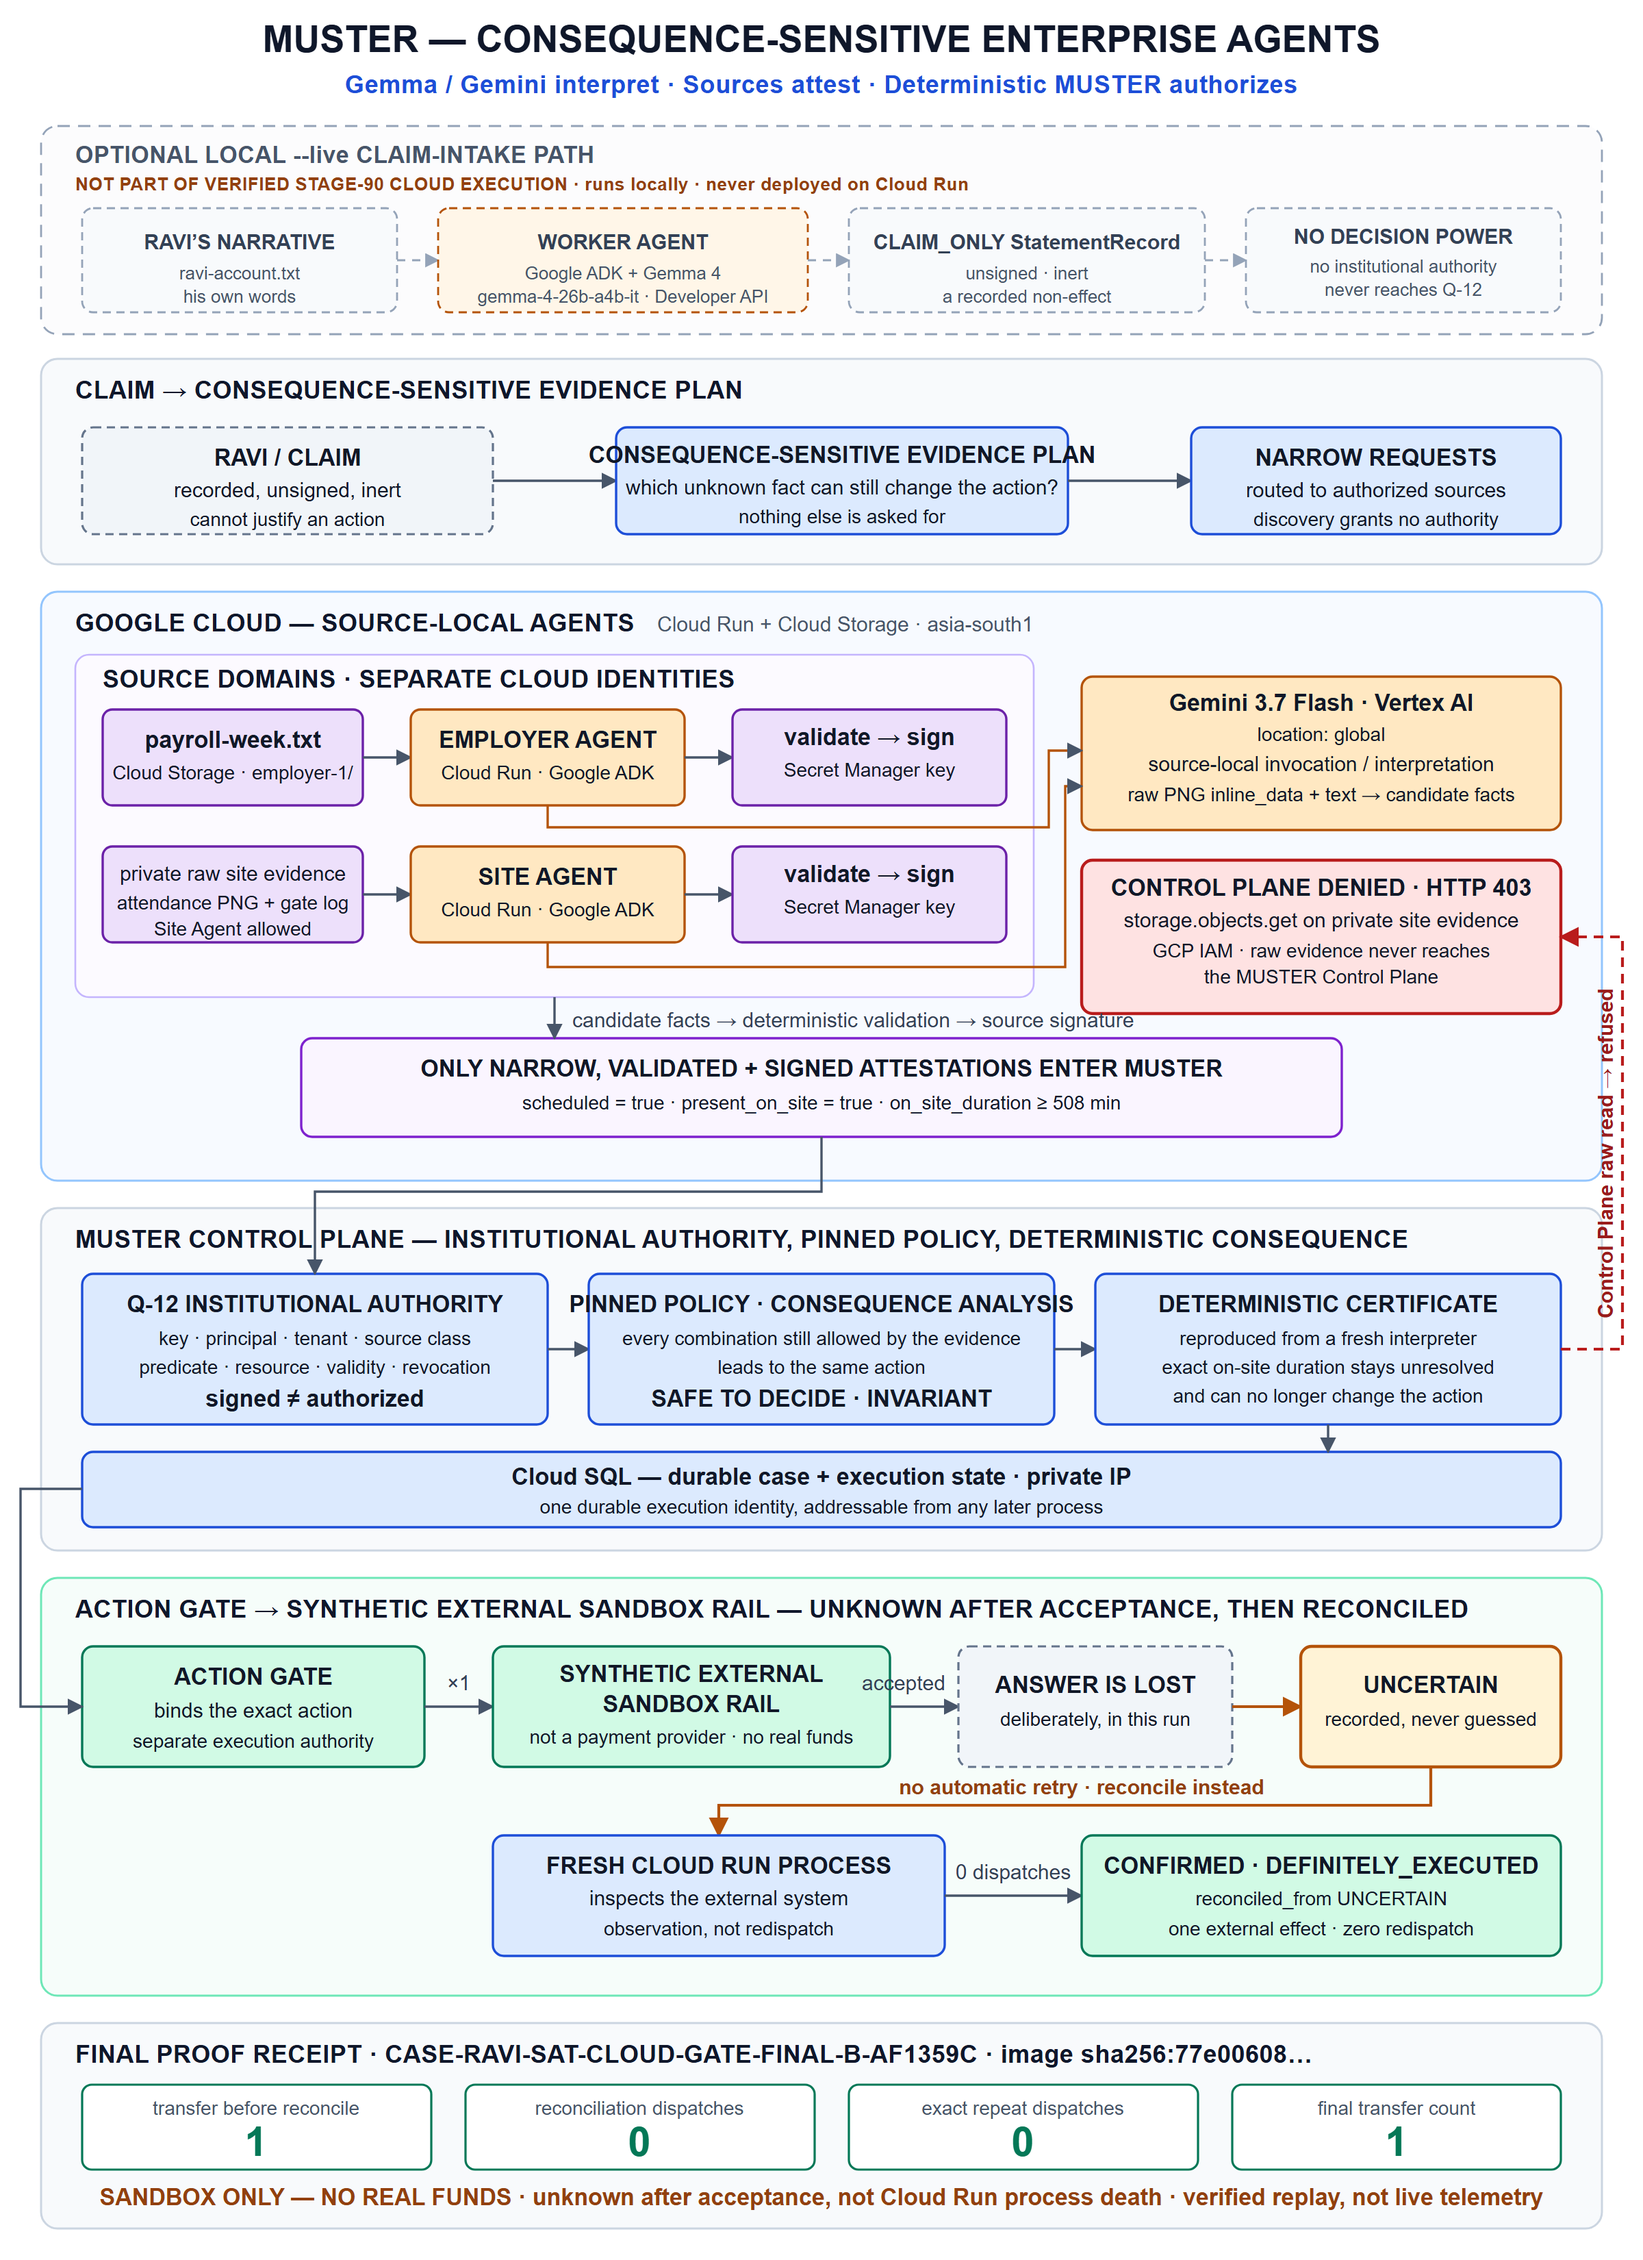
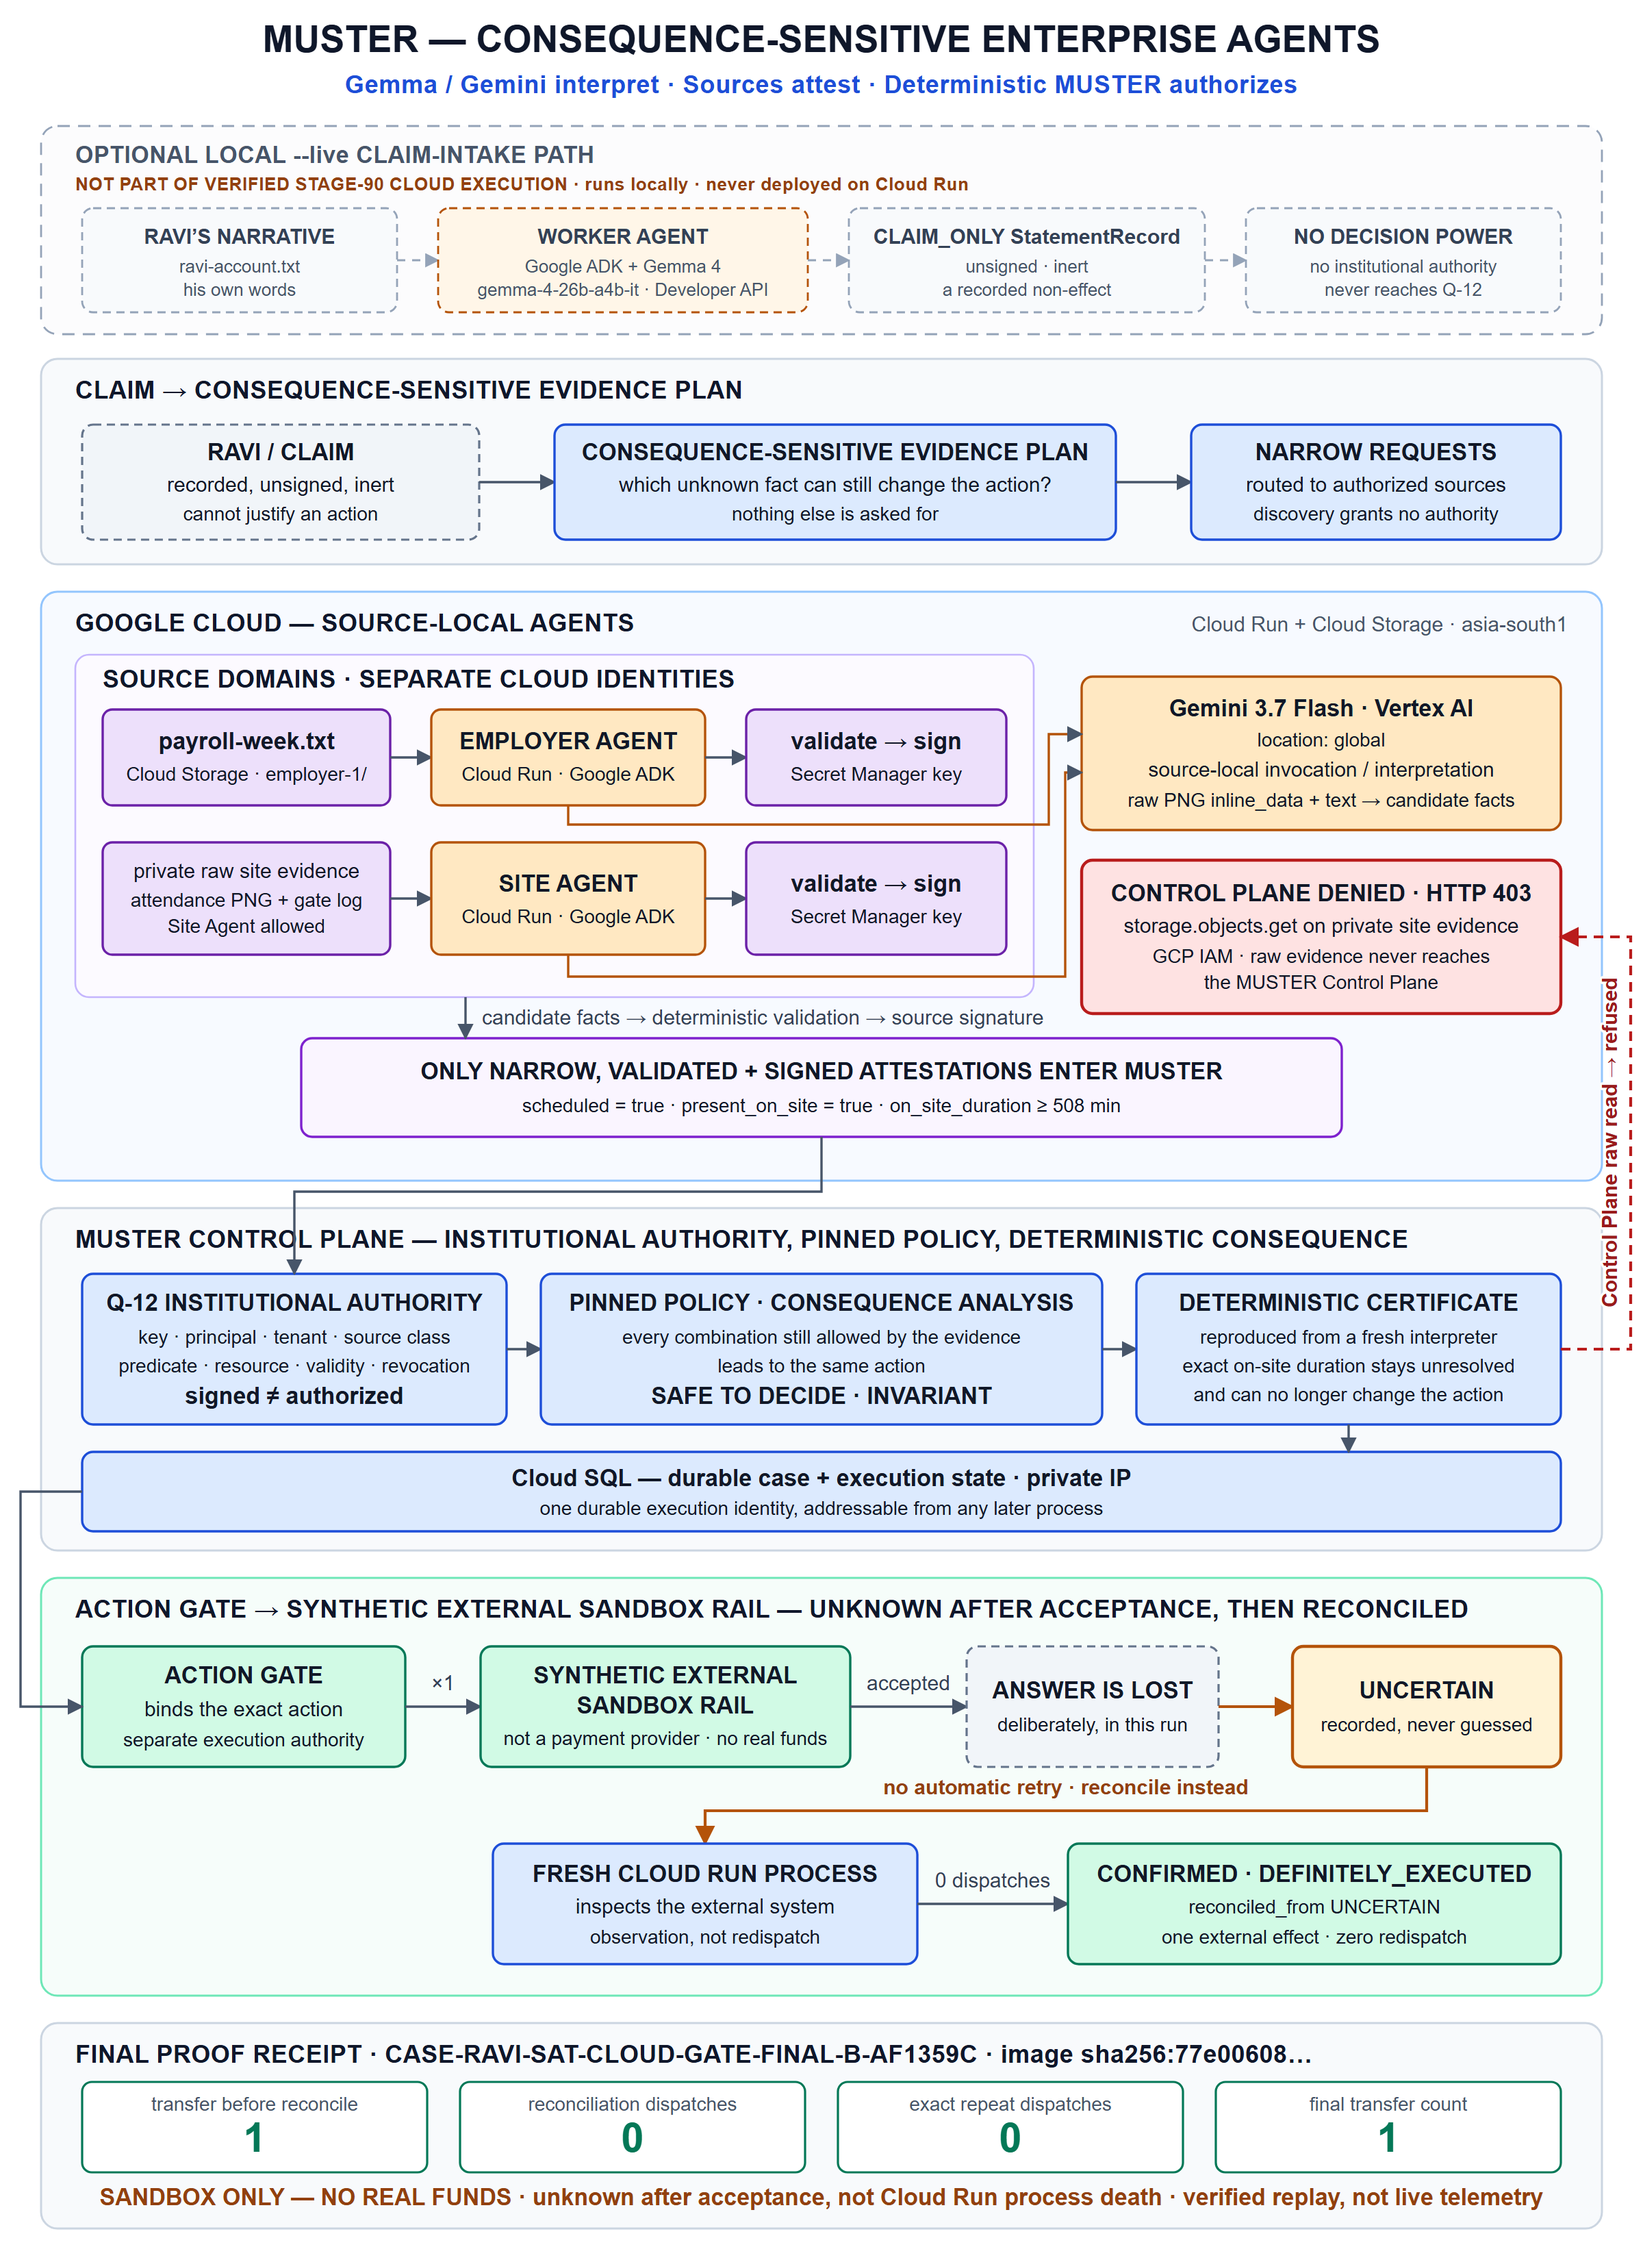
docs: polish final submission materials

diff --git a/README.md b/README.md
@@ -480,48 +480,30 @@ ARCHITECTURE.md            authoritative architecture and claim boundaries
 
 ## Testing
 
-`pytest --collect-only` reports **7,706 collected tests** — items, which is
-what pytest runs and counts, so a parametrized test contributes one per case.
-**0 fail in either environment recorded here.** How many of the 7,706 *run* is
-a property of the machine rather than of the tree, so the counts are given per
-environment rather than as one number:
+Current supported-platform CI on `ubuntu-24.04` / Python 3.12 is green: ruff,
+mypy, all **25 import-linter architecture contracts** and pytest pass. The
+current tree collects **2,898 Python tests**; that CI run executed **2,510
+passed / 388 skipped / 0 failed**. The UI adds **119 passing Vitest tests**
+and passes typecheck and production build.
 
-| Environment | Passed | Skipped | Failed |
-|---|---|---|---|
-| Windows 11 · Python 3.12 · a POSIX shell on `PATH` (Git Bash) | 7,318 | 388 | 0 |
-| Windows 11 · Python 3.12 · no POSIX shell on `PATH` (PowerShell) | 7,210 | 496 | 0 |
-| `ubuntu-24.04` via `.github/workflows/verify.yml` | *not yet run* | *not yet run* | *not yet run* |
+| Gate | Result |
+|---|---|
+| ruff | passed |
+| mypy | passed |
+| import-linter · kernel / control plane / agent fleet | 10 / 10 / 5 kept · **0 broken** |
+| pytest — 2,898 collected | **2,510** passed · **388** skipped · **0** failed |
+| UI · Vitest | **119** passed |
+| UI · typecheck and production build | passed |
 
-Each Windows row is one complete `python -m pytest` of the whole tree. Neither
-has a DSN or cloud credentials, so both skip the PostgreSQL, cloud and
-live-model suites; those are reported as skips rather than hidden and do not
-indicate broken behavior. **The two rows differ by exactly 108 tests, and the
-difference is the shell.** Many suites drive the deployment scripts through a
-real `bash` and resolve one by running it (see the note below); where no POSIX
-shell answers the probe, those 108 skip instead of failing. That is the whole
-of the gap.
+Provenance: GitHub Actions run `33308314303` of
+`.github/workflows/verify.yml`, commit
+`bd5294e21721a2999228c4838745ed70fcbc6a4d`, conclusion `success`.
 
-**No Linux run is recorded in this repository yet**, and none is claimed.
-`.github/workflows/verify.yml` runs ruff, mypy, all three import-linter
-configurations and pytest on `ubuntu-24.04`, plus the UI's three commands, and
-is the intended source of a supported-platform number. Until GitHub has
-actually run it after a push, the third row stays empty.
-
-The UI has **119 Vitest tests across 11 files**, all passing, alongside
-`npm run typecheck` and `npm run build`.
-
-**A note on the platform, because the counts depend on it.** Many suites drive
-the deployment shell scripts through a real `bash`, and on Windows the first
-`bash` on `PATH` is usually a WSL launcher — `System32\bash.exe` or the
-`WindowsApps` alias — which starts a Linux distribution whose filesystem is not
-this one. Handed a script named `C:/…/drive.sh`, it fails, and a hundred tests
-fail with it for a reason that has nothing to do with the scripts. The suites
-now resolve a shell by *running* one: candidates are tried in `PATH` order and
-the first that executes a probe script named by a real path is used. On a
-machine with no POSIX shell at all, those suites **skip** rather than fail, and
-say so — which is exactly why the two Windows rows above differ, and why
-reporting one universal pass/skip pair for this tree would be false on at
-least one of them.
+The runner has no database DSN and no cloud credentials, so the PostgreSQL,
+cloud and live-model suites skip; those are reported as skips rather than
+hidden and do not indicate broken behavior. A local run on a machine with no
+POSIX shell on `PATH` also skips the suites that drive the deployment scripts
+through a real `bash`.
 
 Install the pinned developer tools once, then run the suite:
 

diff --git a/DEVPOST.md b/DEVPOST.md
@@ -192,19 +192,14 @@ redispatches an uncertain outcome.
   finality controls, then verified the sandbox unknown-after-acceptance and
   reconciliation sequence on Cloud Run + Cloud SQL; no real funds transferred.
 - Demonstrated the same kernel across workforce and procurement policies.
-- Collected 7,706 Python tests, with **0 failures in either environment
-  recorded**. How many of them run is a property of the machine: many suites
-  drive the deployment shell scripts through a real `bash` and skip where no
-  POSIX shell answers a probe, so the counts are reported per environment
-  rather than as one number. Two complete runs on Windows 11 / Python 3.12,
-  with no database DSN and no cloud credentials: **7,318 passed / 388 skipped**
-  with a POSIX shell on `PATH` (Git Bash), and **7,210 passed / 496 skipped**
-  without one (PowerShell) — a difference of exactly the 108 shell-driven
-  tests. The UI adds 119 passing Vitest tests. **No Linux run is recorded yet
-  and none is claimed**; a minimal GitHub Actions workflow runs ruff, mypy, all
-  three import-linter configurations, pytest and the UI's three commands on
-  `ubuntu-24.04`, and is the intended source of a supported-platform number
-  once GitHub has run it.
+- Current supported-platform CI on Ubuntu 24.04 / Python 3.12 is green: ruff,
+  mypy, all **25 import-linter architecture contracts** (10 kernel, 10 control
+  plane, 5 agent fleet — **0 broken**), and pytest pass. The current tree
+  collects **2,898 Python tests**; that CI run executed **2,510 passed / 388
+  skipped / 0 failed** on a runner with no database DSN and no cloud
+  credentials. The UI adds **119 passing Vitest tests** and passes typecheck
+  and production build. Provenance: GitHub Actions run `33308314303`, commit
+  `bd5294e21721a2999228c4838745ed70fcbc6a4d`.
 
 ## What We Learned
 
